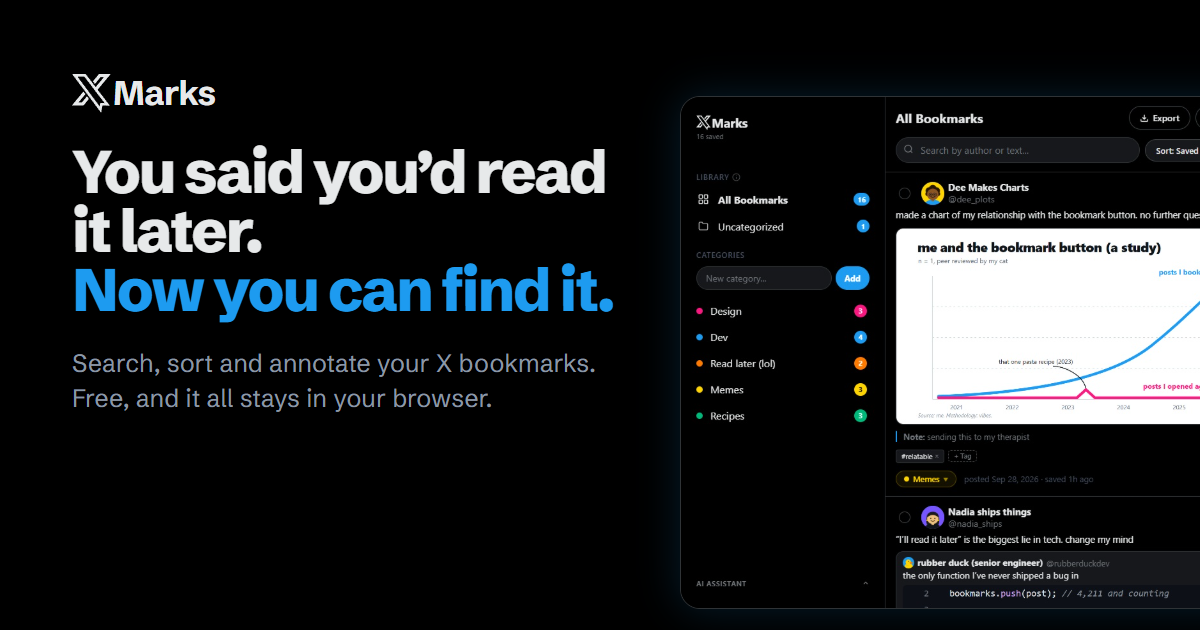
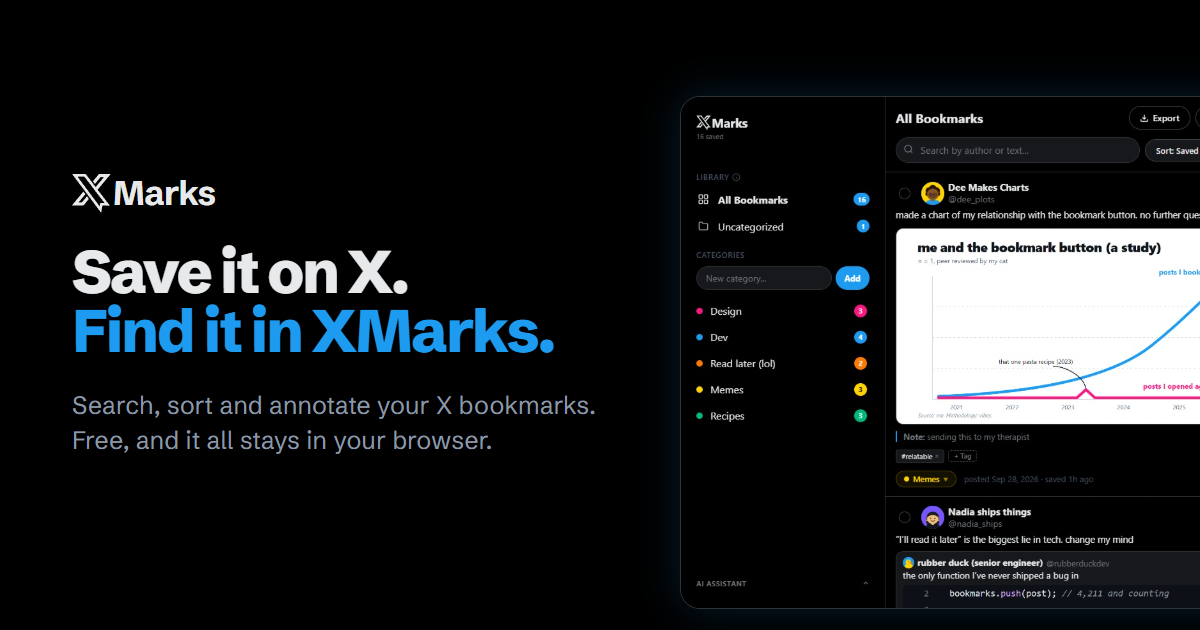
feat(landing): new headline "Save it on X. Find it in XMarks."
Replaces "You said you'd read it later. Now you can find it." in the
hero, the link preview image and its alt text, and the store
description. On phones the headline scales with the screen so each
line stays whole down to 320px.

Changed region(s): [[0.0617, 0.2413, 0.5242, 0.7238], [0.0617, 0.1206, 0.185, 0.181]]

diff --git a/docs/store-listing.md b/docs/store-listing.md
@@ -17,7 +17,7 @@ Everything to paste into the [Developer Dashboard](https://chrome.google.com/web
 **Description** (plain text; the store doesn't render Markdown):
 
 ```text
-You said you'd read it later. Now you can find it.
+Save it on X. Find it in XMarks.
 
 XMarks turns your X (Twitter) bookmarks into a library you can search, sort into categories and add notes to. It all stays in your browser: no account, no server, no tracking.
 
